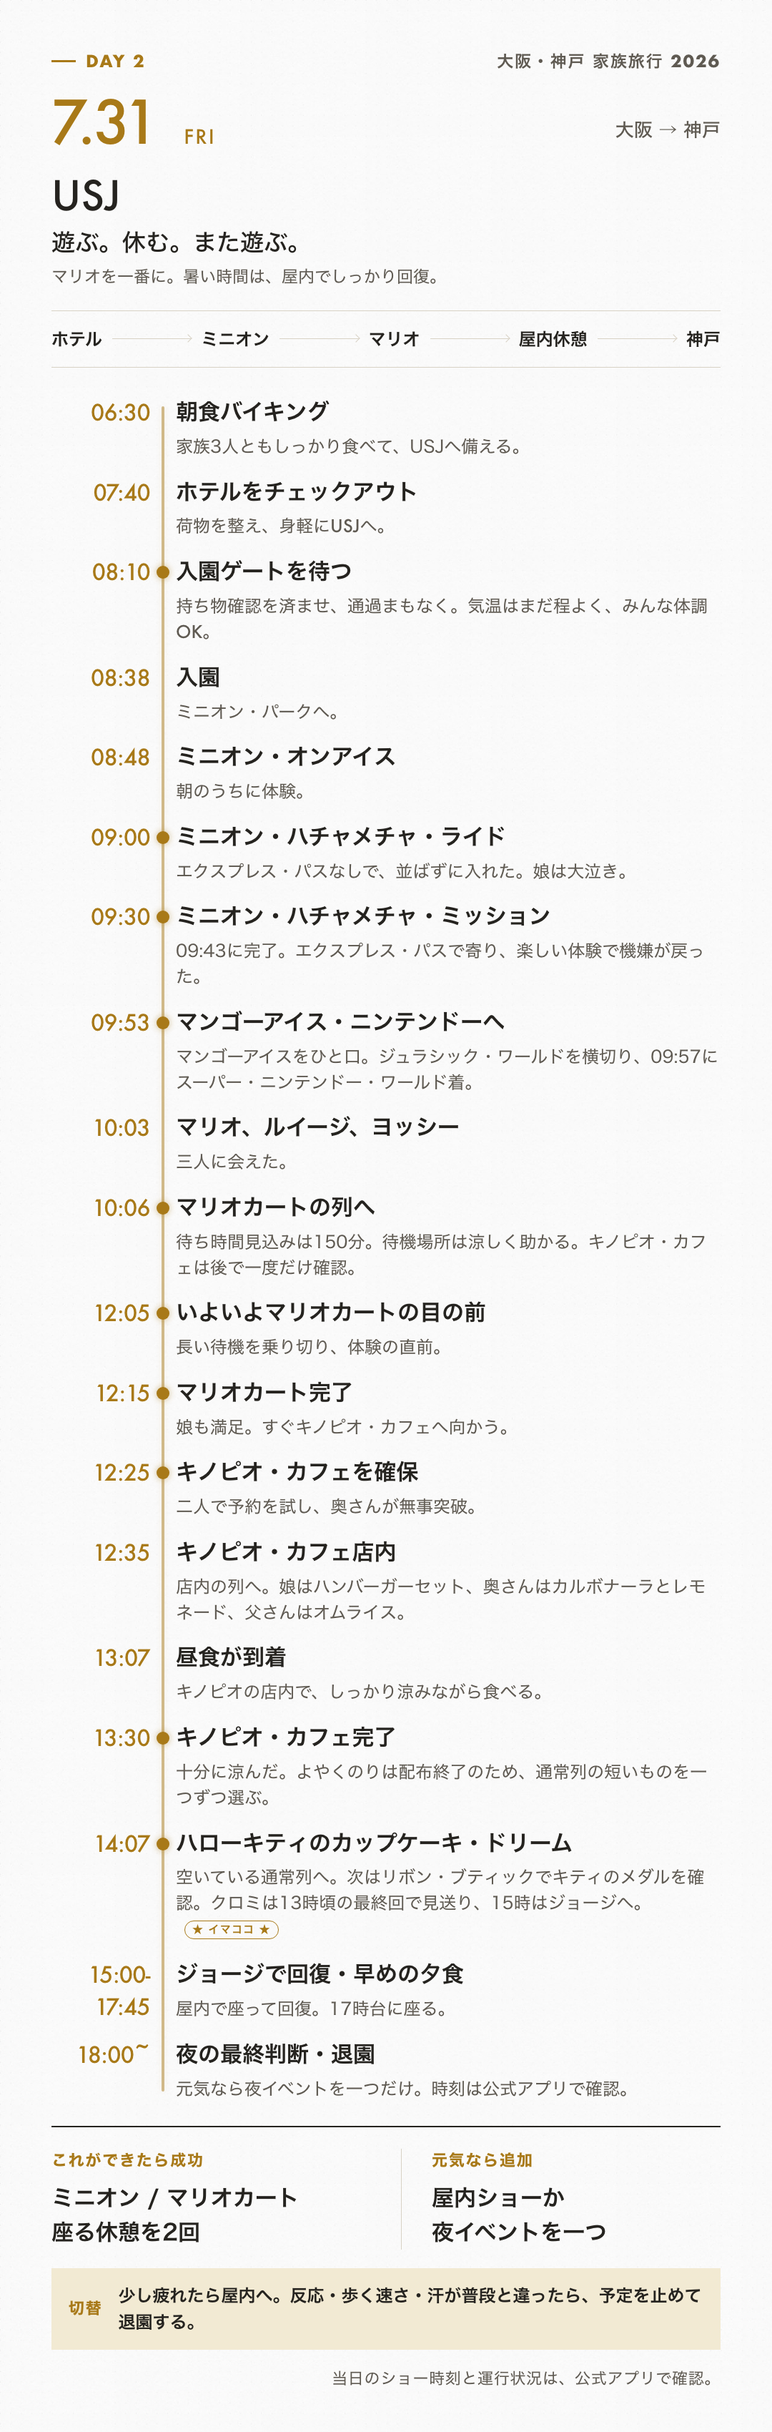
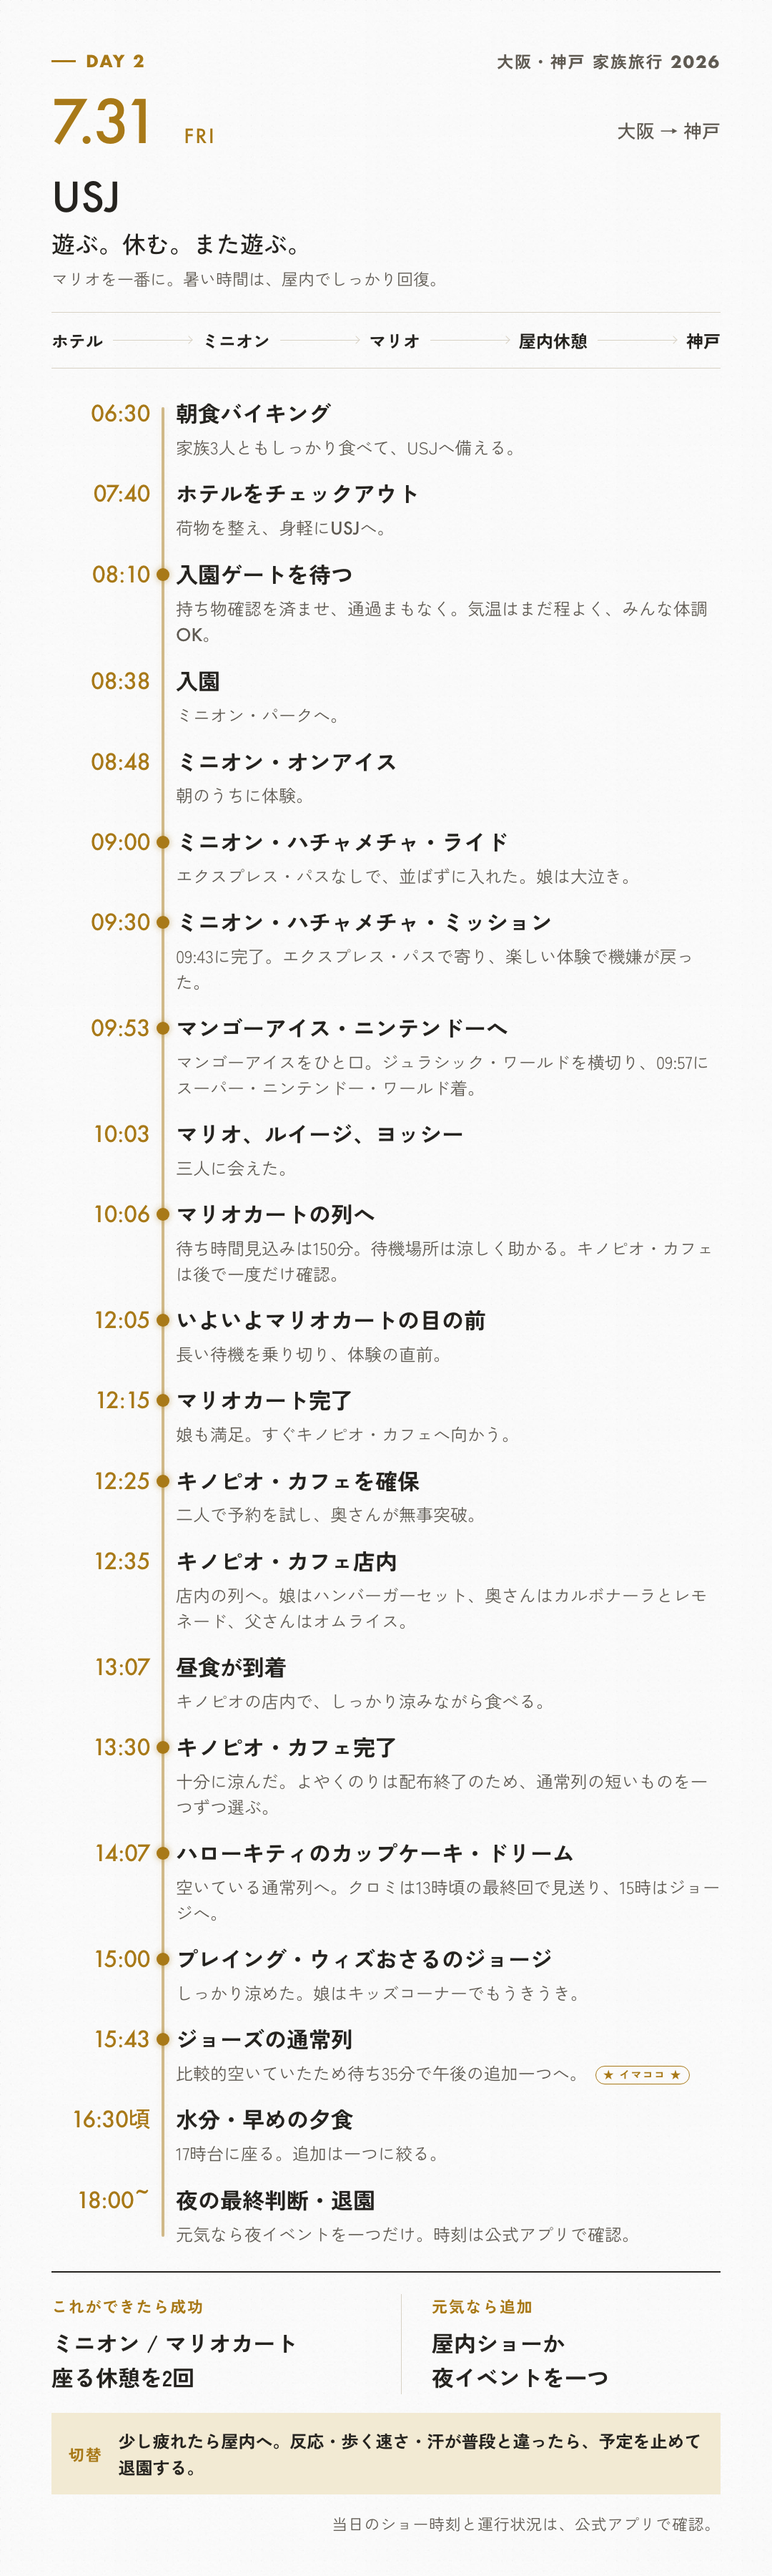
Record USJ afternoon progress

diff --git a/docs/usj-guide.html b/docs/usj-guide.html
@@ -82,11 +82,15 @@
             </div>
             <div class="timeline__item">
               <time>14:07</time>
-              <div><h3>ハローキティのカップケーキ・ドリーム</h3><p>空いている通常列へ。まずは娘が行きたかったキティの時間を楽しむ。<span class="now-marker">★ イマココ ★</span></p></div>
+              <div><h3>ハローキティのカップケーキ・ドリーム</h3><p>空いている通常列へ。まずは娘が行きたかったキティの時間を楽しむ。</p></div>
             </div>
             <div class="timeline__item">
-              <time>15:00頃</time>
-              <div><h3>クロミを見送り、ジョージへ</h3><p>クロミ・ライブは13時頃の回が最終だった。水分を取ってから、屋内で座れるプレイング・ウィズおさるのジョージを第一候補にする。</p></div>
+              <time>15:00</time>
+              <div><h3>プレイング・ウィズおさるのジョージ</h3><p>しっかり涼めた。娘はキッズコーナーでもうきうきして楽しめた。</p></div>
+            </div>
+            <div class="timeline__item">
+              <time>15:43</time>
+              <div><h3>ジョーズの通常列</h3><p>比較的空いていたため、待ち35分で午後の追加一つへ。<span class="now-marker">★ イマココ ★</span></p></div>
             </div>
           </div>
         </section>
@@ -176,8 +180,8 @@
             <div class="timeline__item">
               <time>15:00頃</time>
               <div>
-                <h3>水分を取ってジョージへ</h3>
-                <p>クロミは13時頃の最終回で見送り。プレイング・ウィズおさるのジョージで座って回復する。</p>
+                <h3>ジョーズ後は水分と夕食へ</h3>
+                <p>ジョーズを午後の追加一つにする。17時台の早い夕食まで、追加は一つに絞る。</p>
               </div>
             </div>
             <div class="timeline__item">

diff --git a/docs/trip-plan.html b/docs/trip-plan.html
@@ -413,11 +413,11 @@
             </div>
             <div>
               <h3>現在</h3>
-              <p><span class="now-marker">★ イマココ ★</span> 14:07、空いているハローキティのカップケーキ・ドリームへ。</p>
+              <p><span class="now-marker">★ イマココ ★</span> 15:43、比較的空いていたジョーズへ。待ち時間は35分。</p>
             </div>
             <div>
               <h3>この後</h3>
-              <p>カップケーキ後にキティのメダルを確認。クロミは13時頃の最終回で見送り、15時頃は水分を取ってジョージへ。</p>
+              <p>ジョージでしっかり涼み、娘はキッズコーナーも満喫。ジョーズ後は水分を取り、17時台の早い夕食へ。</p>
             </div>
           </div>
           <p>時刻つきの実績、現在地、ここからの判断は、<a href="usj-guide.html">USJ当日ガイド</a>を正本とする。</p>

diff --git a/docs/index.html b/docs/index.html
@@ -127,7 +127,7 @@
               src="guide/day-2.png"
               alt="7月31日、USJ日のしおり"
               width="1080"
-              height="3400"
+              height="3600"
               loading="lazy"
             />
           </figure>
